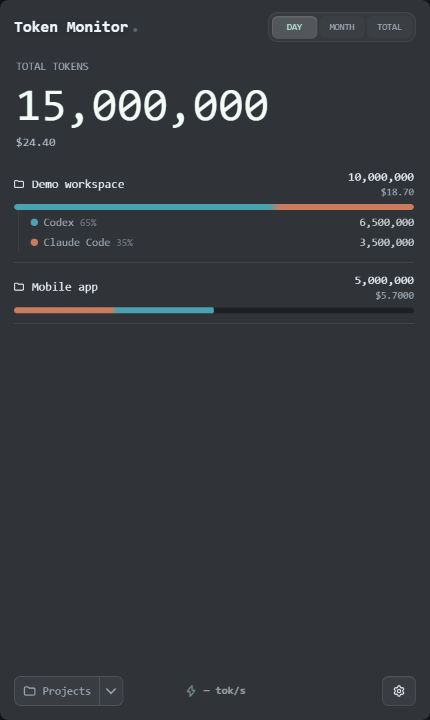
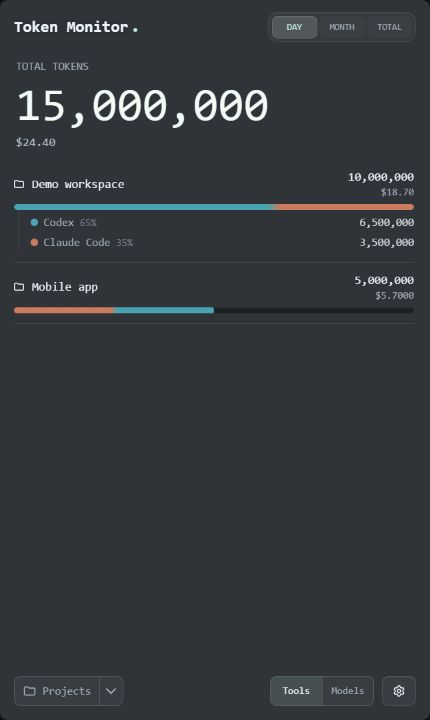
fix(projects): move breakdown toggle into view footer

Changed region(s): [[0.6047, 0.9167, 0.8465, 1.0], [0.514, 0.9472, 0.5744, 0.9778], [0.4233, 0.9472, 0.4535, 0.9778]]

diff --git a/src/electron/renderer/app.js b/src/electron/renderer/app.js
@@ -385,6 +385,9 @@ Object.assign(els, {
   toolDetailFooter: document.getElementById('toolDetailFooter'),
   toolDetailFooterTokens: document.getElementById('toolDetailFooterTokens'),
   toolDetailFooterModels: document.getElementById('toolDetailFooterModels'),
+  projectBreakdownFooter: document.getElementById('projectBreakdownFooter'),
+  projectBreakdownFooterTools: document.getElementById('projectBreakdownFooterTools'),
+  projectBreakdownFooterModels: document.getElementById('projectBreakdownFooterModels'),
   monthPeriodMenu: document.getElementById('monthPeriodMenu'),
   monthPeriodTab: document.getElementById('monthPeriodTab'),
   periodMonthModeInput: document.getElementById('periodMonthModeInput'),
@@ -613,6 +616,8 @@ document.addEventListener('keydown', (event) => {
 
 els.toolDetailFooterTokens.addEventListener('click', () => setActiveToolDetailMode('tokens'));
 els.toolDetailFooterModels.addEventListener('click', () => setActiveToolDetailMode('models'));
+els.projectBreakdownFooterTools.addEventListener('click', () => { void saveSettings({ projectBreakdownMode: 'tool' }).catch(() => {}); });
+els.projectBreakdownFooterModels.addEventListener('click', () => { void saveSettings({ projectBreakdownMode: 'model' }).catch(() => {}); });
 
 document.addEventListener('pointerdown', (event) => {
   if (state.viewSwitcherOpen && !event.target.closest('#viewSwitcher')) {
@@ -1204,6 +1209,7 @@ function syncLiveTokenRateFooterState() {
   if (!footer) return;
   const enabled = state.settings?.showLiveTokenRate === true;
   const obscured = !els.toolDetailFooter?.classList.contains('hidden')
+    || !els.projectBreakdownFooter?.classList.contains('hidden')
     || !els.appUpdatePill?.classList.contains('hidden');
   footer.classList.toggle('live-token-rate-enabled', enabled);
   footer.classList.toggle('live-token-rate-obscured', enabled && obscured);
@@ -2519,6 +2525,19 @@ function setActiveToolDetailMode(mode) {
   state.toolDetailMode = mode;
   renderToolDetailAccordion(active.accordionInner, active.detail);
   renderToolDetailFooter();
+}
+
+function renderProjectBreakdownFooter() {
+  const active = visibleStatsSurface() === 'main' && state.breakdown === 'project';
+  els.projectBreakdownFooter.classList.toggle('hidden', !active);
+  syncLiveTokenRateFooterState();
+  if (!active) return;
+  const mode = state.settings?.projectBreakdownMode === 'model' ? 'model' : 'tool';
+  els.projectBreakdownFooter.setAttribute('aria-label', t('views.project'));
+  els.projectBreakdownFooterTools.textContent = t('views.tool');
+  els.projectBreakdownFooterModels.textContent = t('views.model');
+  els.projectBreakdownFooterTools.setAttribute('aria-pressed', String(mode === 'tool'));
+  els.projectBreakdownFooterModels.setAttribute('aria-pressed', String(mode === 'model'));
 }
 
 // The live-session pair: a dot on the tool mark for "this is being written to
@@ -7149,6 +7168,7 @@ function render() {
   renderSessionUsageArchiveStatus();
   ensureBreakdownVisible();
   renderViewSwitcher();
+  renderProjectBreakdownFooter();
   const derivedPeriod = fixedPeriodRangesApi.isDerived(state.period);
   if (derivedPeriod) {
     const signature = fixedPeriodHistorySignature();
@@ -10226,38 +10246,6 @@ function renderProjectSettingsList() {
   text.textContent = t('settings.views.enableProjects');
   label.append(input, text);
   wrap.append(label);
-  const modeRow = document.createElement('div');
-  modeRow.className = 'settings-item';
-  const modeText = document.createElement('span');
-  modeText.className = 'settings-item-text';
-  const modeTitle = document.createElement('span');
-  modeTitle.id = 'projectBreakdownModeLabel';
-  modeTitle.className = 'settings-item-title';
-  modeTitle.textContent = t('settings.views.projectBreakdownMode');
-  modeText.append(modeTitle);
-  const modeOptions = document.createElement('div');
-  modeOptions.className = 'inline-options';
-  modeOptions.setAttribute('role', 'radiogroup');
-  modeOptions.setAttribute('aria-labelledby', modeTitle.id);
-  const selectedMode = state.settings?.projectBreakdownMode === 'model' ? 'model' : 'tool';
-  for (const mode of ['tool', 'model']) {
-    const option = document.createElement('label');
-    option.className = 'inline-option';
-    const radio = document.createElement('input');
-    radio.type = 'radio';
-    radio.name = 'projectBreakdownMode';
-    radio.value = mode;
-    radio.checked = selectedMode === mode;
-    const optionText = document.createElement('span');
-    optionText.textContent = t(mode === 'model' ? 'settings.views.projectBreakdownModels' : 'settings.views.projectBreakdownTools');
-    option.append(radio, optionText);
-    radio.addEventListener('change', () => {
-      if (radio.checked) void saveSettings({ projectBreakdownMode: mode }).catch(() => {});
-    });
-    modeOptions.append(option);
-  }
-  modeRow.append(modeText, modeOptions);
-  wrap.append(modeRow);
   input.addEventListener('change', async () => {
     await setProjectsEnabled(input.checked);
     await refreshStats({ force: true });

diff --git a/src/electron/renderer/i18n.js b/src/electron/renderer/i18n.js
@@ -525,9 +525,6 @@
       'settings.session.contextMetric.used': 'Used',
       'settings.session.contextMetric.remaining': 'Remaining',
       'settings.views.enableProjects': 'Enable project tracking',
-      'settings.views.projectBreakdownMode': 'Break projects down by',
-      'settings.views.projectBreakdownTools': 'Tools',
-      'settings.views.projectBreakdownModels': 'Models',
       'settings.views.trendInterval': 'Scan every',
       'settings.views.trendIntervalMinutes': '{n}m',
       'views.home': 'Home',
@@ -2445,9 +2442,6 @@
       'settings.session.contextMetric.used': '已用',
       'settings.session.contextMetric.remaining': '剩餘',
       'settings.views.enableProjects': '啟用專案追蹤',
-      'settings.views.projectBreakdownMode': '專案分項依據',
-      'settings.views.projectBreakdownTools': '工具',
-      'settings.views.projectBreakdownModels': '模型',
       'settings.views.trendInterval': '掃描間隔',
       'settings.views.trendIntervalMinutes': '{n} 分鐘',
       'views.home': '主頁',
@@ -4365,9 +4359,6 @@
       'settings.session.contextMetric.used': '已用',
       'settings.session.contextMetric.remaining': '剩余',
       'settings.views.enableProjects': '启用项目追踪',
-      'settings.views.projectBreakdownMode': '项目分项依据',
-      'settings.views.projectBreakdownTools': '工具',
-      'settings.views.projectBreakdownModels': '模型',
       'settings.views.trendInterval': '扫描间隔',
       'settings.views.trendIntervalMinutes': '{n} 分钟',
       'views.home': '主页',
@@ -7642,9 +7633,6 @@
       'settings.session.contextMetric.used': '사용됨',
       'settings.session.contextMetric.remaining': '남음',
       'settings.views.enableProjects': '프로젝트 추적 활성화',
-      'settings.views.projectBreakdownMode': '프로젝트 내역 기준',
-      'settings.views.projectBreakdownTools': '도구',
-      'settings.views.projectBreakdownModels': '모델',
       'settings.views.hideView': '{name} 숨기기',
       'settings.views.homeSettingsNote': '홈은 여기에서 보이는 한도, 모델, 추이 보기를 이 순서대로 사용합니다. 지금 보기를 숨기거나 순서를 변경하여 개요를 구성하세요; v2에서 더 풍부한 모듈 제어가 추가될 예정입니다.',
       'settings.views.note': '표시되는 메인 화면 보기와 모드 버튼 순서를 선택하세요.',
@@ -9562,9 +9550,6 @@
       'settings.session.contextMetric.used': '使用済み',
       'settings.session.contextMetric.remaining': '残り',
       'settings.views.enableProjects': 'プロジェクト追跡を有効化',
-      'settings.views.projectBreakdownMode': 'プロジェクトの内訳',
-      'settings.views.projectBreakdownTools': 'ツール',
-      'settings.views.projectBreakdownModels': 'モデル',
       'settings.views.hideView': '{name}を非表示',
       'settings.views.homeSettingsNote': 'ホームはここで表示されている制限、モデル、トレンドのビューをこの順序で使用します。今すぐビューを非表示にしたり並び替えることで概要を構成できます。より詳細なモジュール制御はv2で追加予定です。',
       'settings.views.note': '表示するメイン画面のビューとモードボタンの順序を選択します。',
@@ -10125,9 +10110,6 @@
       'settings.session.contextMetric.used': 'Usado',
       'settings.session.contextMetric.remaining': 'Restante',
       'settings.views.enableProjects': 'Ativar o monitoramento de projetos',
-      'settings.views.projectBreakdownMode': 'Dividir projetos por',
-      'settings.views.projectBreakdownTools': 'Ferramentas',
-      'settings.views.projectBreakdownModels': 'Modelos',
       'settings.views.trendInterval': 'Verificar a cada',
       'settings.views.trendIntervalMinutes': '{n}m',
       'views.home': 'Início',

diff --git a/src/electron/renderer/index.html b/src/electron/renderer/index.html
@@ -1600,6 +1600,10 @@
           <button id="toolDetailFooterTokens" class="tool-detail-footer-option" type="button">Tokens</button>
           <button id="toolDetailFooterModels" class="tool-detail-footer-option" type="button">Models</button>
         </div>
+        <div id="projectBreakdownFooter" class="tool-detail-footer hidden" role="group">
+          <button id="projectBreakdownFooterTools" class="tool-detail-footer-option" type="button">Tools</button>
+          <button id="projectBreakdownFooterModels" class="tool-detail-footer-option" type="button">Models</button>
+        </div>
         <button id="liveTokenRate" class="live-token-rate hidden is-idle" type="button" title="Live token rate" aria-label="Live token rate">
           <span class="live-token-rate-icon" aria-hidden="true"></span>
           <span id="liveTokenRateValue" class="live-token-rate-value">— tok/s</span>

diff --git a/docs/configuration.md b/docs/configuration.md
@@ -30,7 +30,7 @@ Under **Multi-device Sync → Additional sync**, Node Hub and Worker connections
 
 When first enabling aliases or prices, choose the current server settings or publish this device's settings if they differ. Future edits share a server revision; a conflict asks you to reload instead of silently overwriting another device. Devices that leave an option off keep their own local settings. An older server without these endpoints continues basic sync and disables optional controls. See [privacy](privacy.md) and the [sync API](API.md#get-apisynccontent).
 
-Under **Main → Projects → Configure Projects**, choose **Tools** (the default) or **Models** for the project bars and expanded breakdown. This choice is saved locally as `projectBreakdownMode` (`tool` or `model`). Model display aliases are respected; usage without model attribution appears as **Unknown model**. Project token and cost totals stay the same.
+In the **Projects** view, use the **Tools / Models** toggle at the bottom right to change both the project bars and expanded breakdown. It stays available when all projects are collapsed. **Tools** is the default; the choice is saved locally as `projectBreakdownMode` (`tool` or `model`) and is independent of the Tools view’s **Tokens / Models** choice. Model display aliases are respected; usage without model attribution appears as **Unknown model**. Project token and cost totals stay the same.
 
 The `⇧` button in the title bar cycles the window behavior.
 
